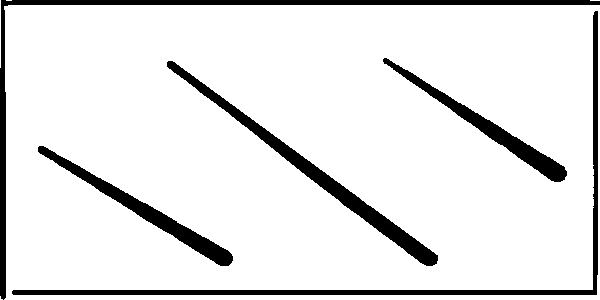
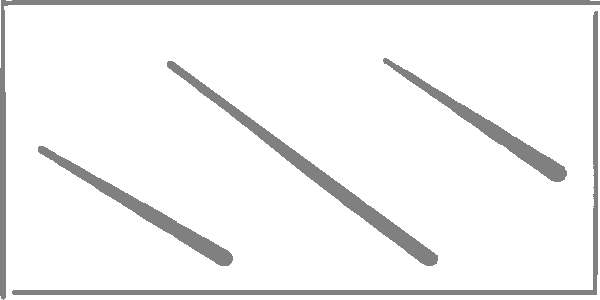
PRETTY COLOURS!!
The shader has been updated so every level now has a 5-colour pallette

diff --git a/1BitJam/Assets/Scripts/CameraShader.cs b/1BitJam/Assets/Scripts/CameraShader.cs
@@ -4,22 +4,25 @@ using System.Collections.Generic;
 [ExecuteInEditMode]
 public class TwoColourEffect : MonoBehaviour {
     public float intensity;
-    float foregroundR = 1;
-    float foregroundG = 1;
-    float foregroundB = 1;
-    float backgroundR = 0;
-    float backgroundG = 0;
-    float backgroundB = 0;
+    float foregroundR = 0.75f;
+    float foregroundG = 0.75f;
+    float foregroundB = 0.75f;
+    float midgroundR = 0.5f;
+    float midgroundG = 0.5f;
+    float midgroundB = 0.5f;
+    float backgroundR = 0.25f;
+    float backgroundG = 0.25f;
+    float backgroundB = 0.25f;
     private Material material;
 
     Dictionary<int, float[]> worldToColour = new Dictionary<int, float[]>()
     {
-        // world colours - intensity, foregroundR, foregroundG, foregroundB, backgroundR, backgroundR, backgroundB
-        {0, new float[] {1,255,255,255,224,86,66} },
-        {1, new float[] {1,255,255,255,0,0,0} },
-        {2, new float[] {1,180,230,235,10,40,70} },
-        {3, new float[] {1,225,240,145,40,75,25} },
-        {4, new float[] {1,255,195,110,70,15,30} }// TEMP just to test if colours were working (they do!)
+        // world colours - intensity, foreground RGB, midground RGB, background RGB
+        {0, new float[] {1,255,255,255,255,255,255,224,86,66} },
+        {1, new float[] {1,150,150,150,80,80,80,40,40,40} },
+        {2, new float[] {1,140,180,230,15,60,100,10,40,70} },
+        {3, new float[] {1,170,205,120,60,90,55,30,60,20} },
+        {4, new float[] {1,255,195,110,130,50,50,70,15,30} }
     };
     
     public int world = 1;
@@ -35,9 +38,12 @@ public class TwoColourEffect : MonoBehaviour {
         foregroundR = (worldToColour[world][1])/255;
         foregroundG = (worldToColour[world][2])/255;
         foregroundB = (worldToColour[world][3])/255;
-        backgroundR = (worldToColour[world][4])/255;
-        backgroundG = (worldToColour[world][5])/255;
-        backgroundB = (worldToColour[world][6])/255;
+        midgroundR = (worldToColour[world][4])/255;
+        midgroundG = (worldToColour[world][5])/255;
+        midgroundB = (worldToColour[world][6])/255;
+        backgroundR = (worldToColour[world][7])/255;
+        backgroundG = (worldToColour[world][8])/255;
+        backgroundB = (worldToColour[world][9])/255;
     }
 
     // Postprocess the image
@@ -49,9 +55,11 @@ public class TwoColourEffect : MonoBehaviour {
             return;
         }
         Color fCol = new Vector4(foregroundR, foregroundG, foregroundB, 1);
+        Color mCol = new Vector4(midgroundR, midgroundG, midgroundB, 1);
         Color bCol = new Vector4(backgroundR, backgroundG, backgroundB, 1);
         material.SetFloat("_bwBlend", intensity);
         material.SetColor("_fgColor", fCol);
+        material.SetColor("_mdColor", mCol);
         material.SetColor("_bgColor", bCol);
         Graphics.Blit (source, destination, material);
     }
